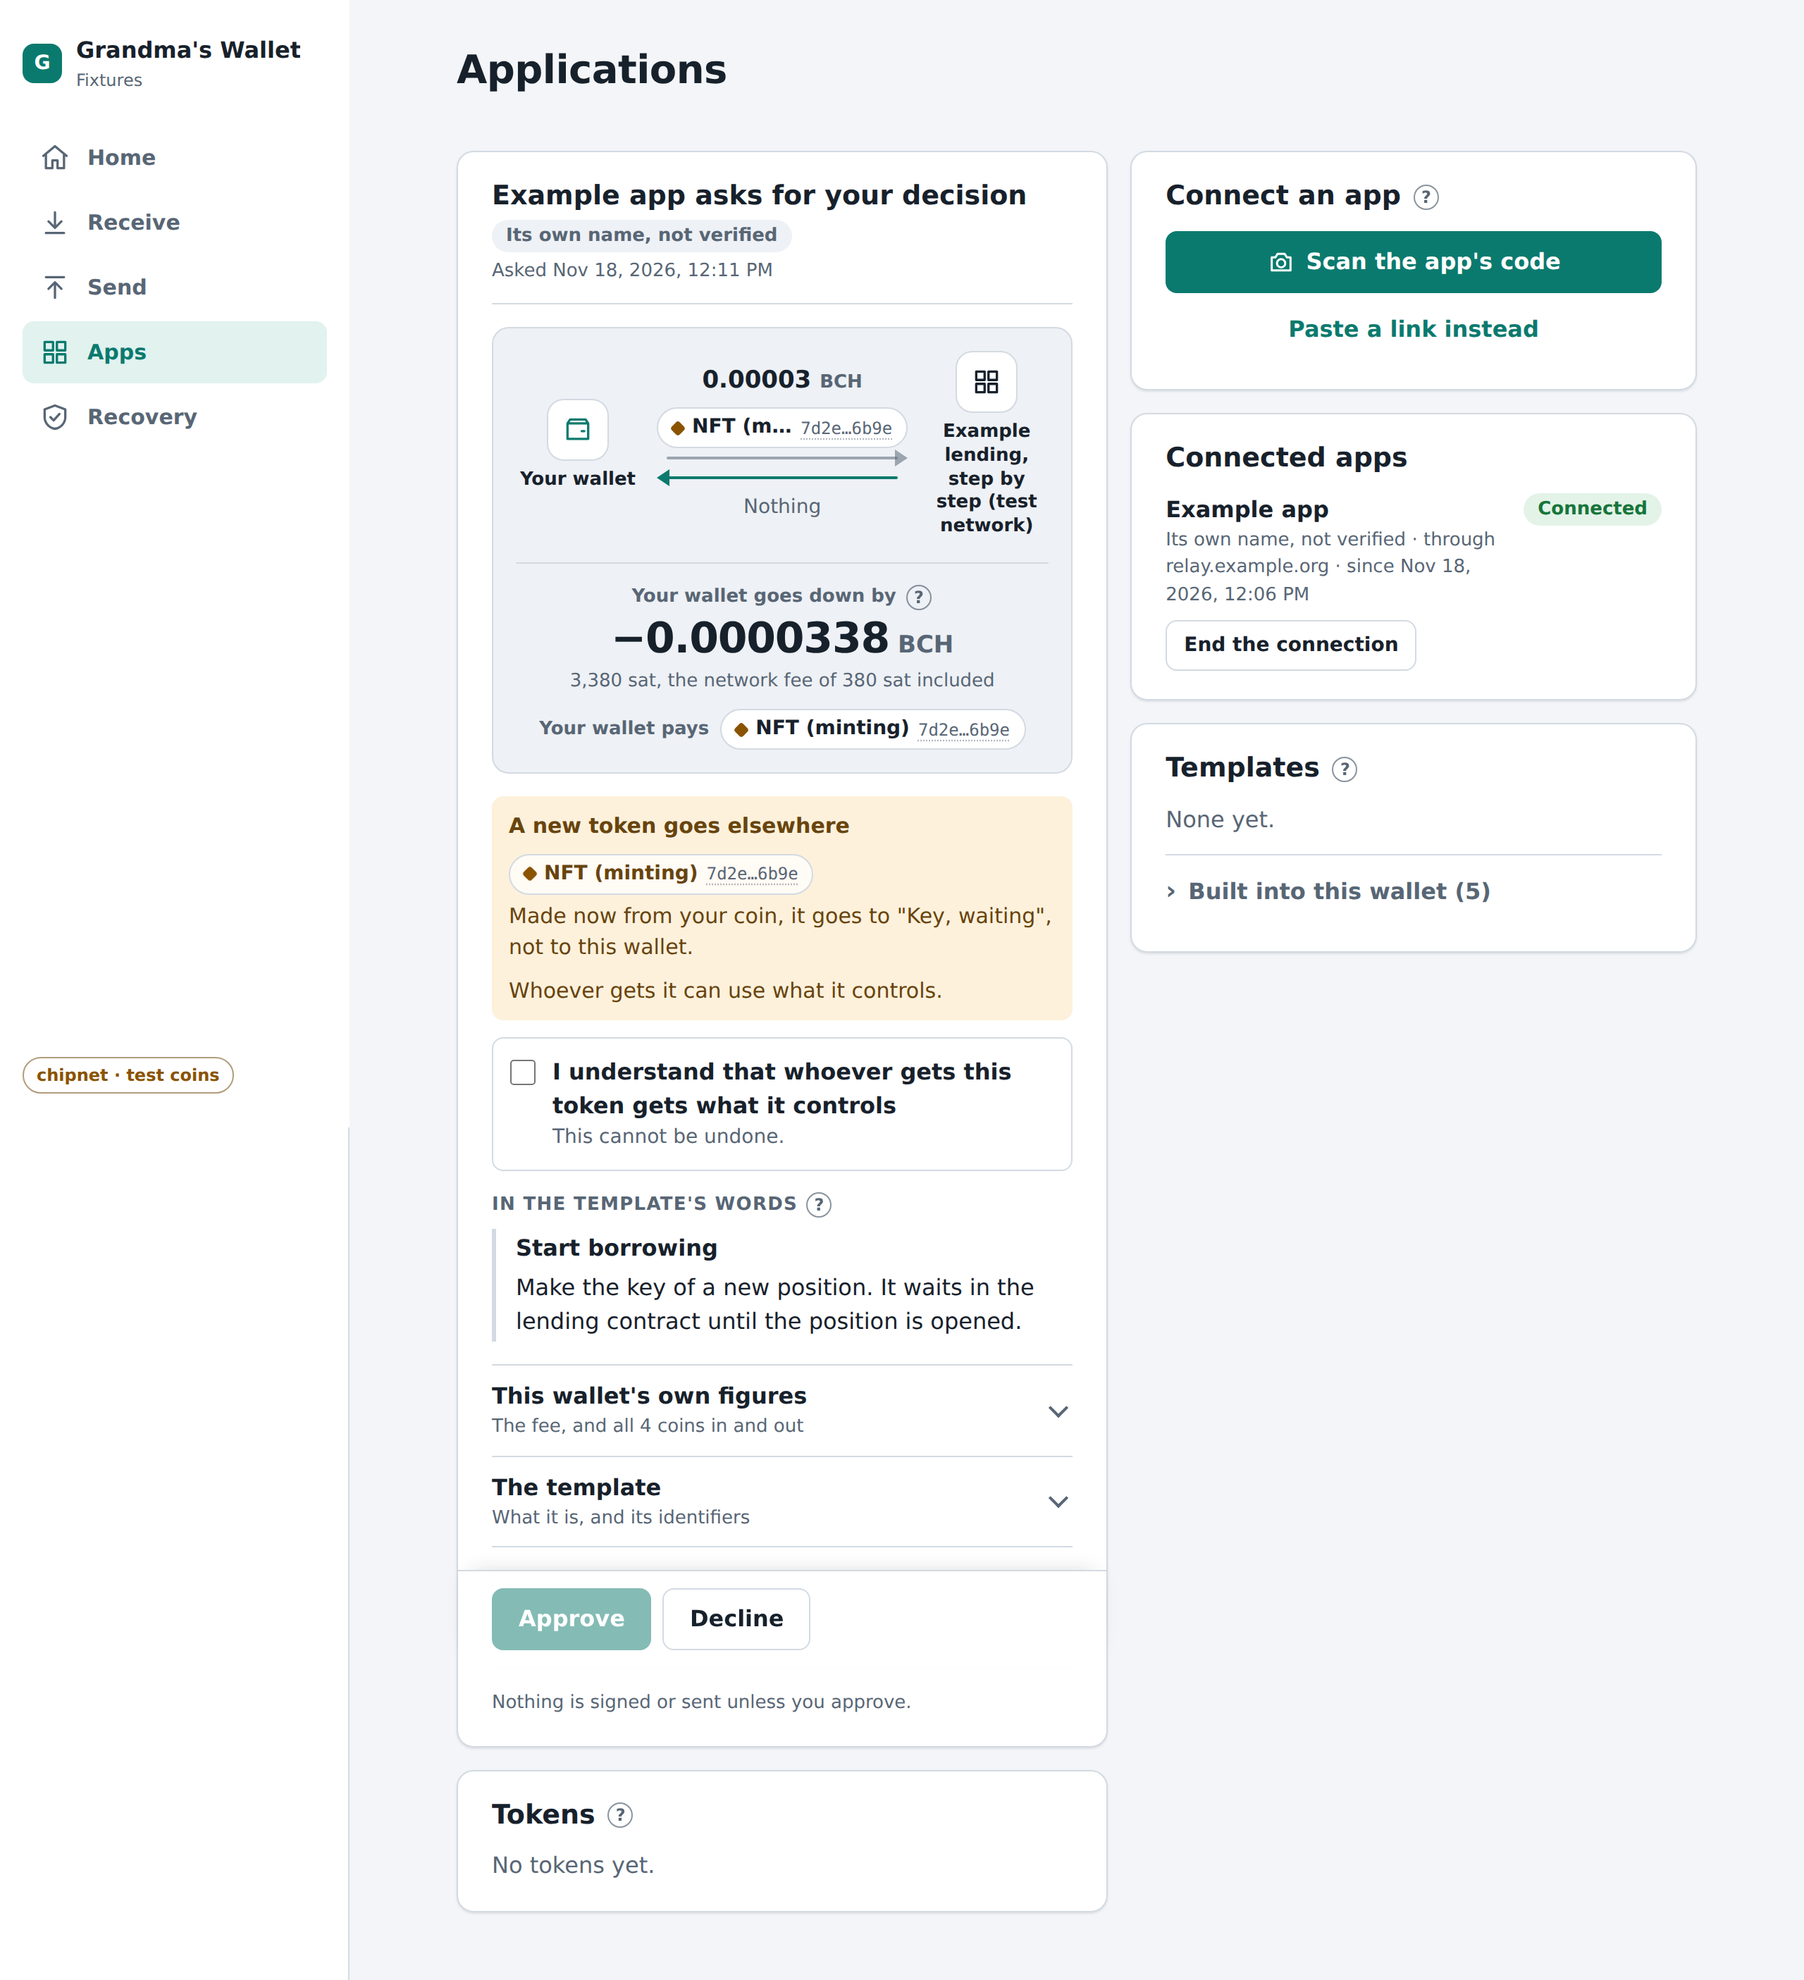
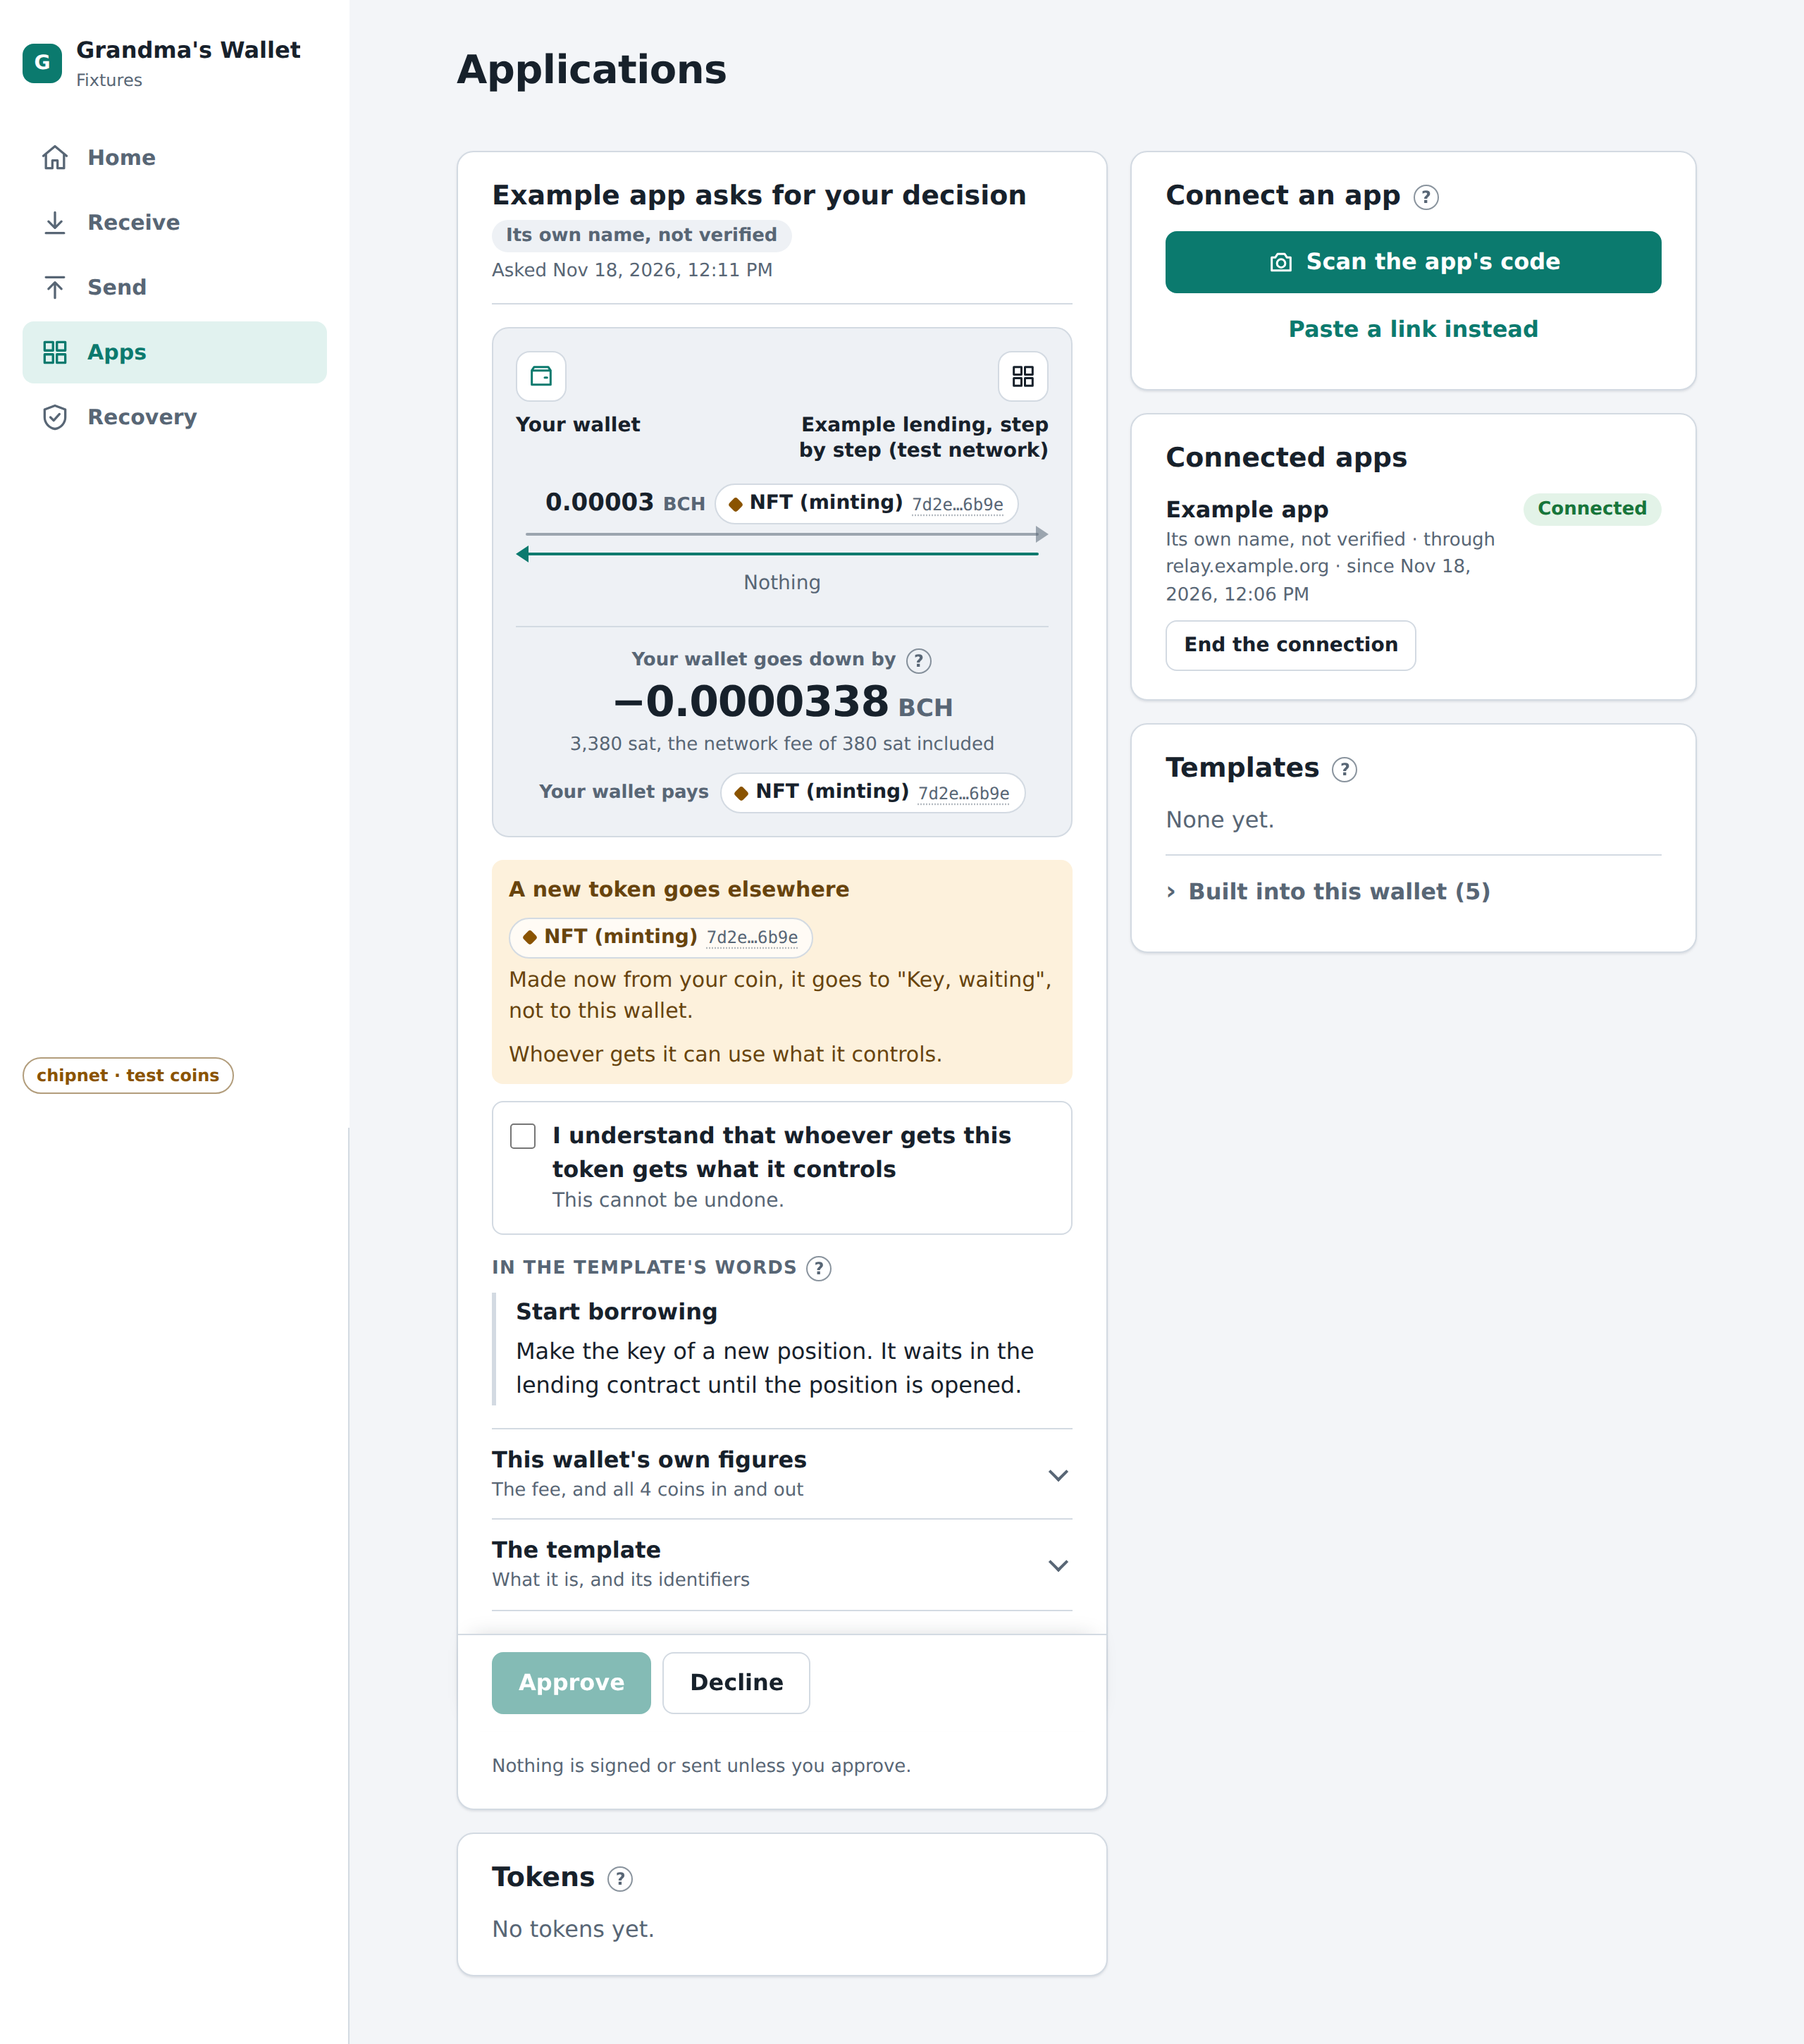
Show the tokens an action moves in full in the review on a desktop
The picture of what goes between the wallet and an application keeps the wallet and the application above
the two lanes unless the lanes have room for a token in full, so that an NFT's capability and an amount are
no longer cut off.

diff --git a/scripts/positions-check.ts b/scripts/positions-check.ts
@@ -167,7 +167,7 @@ try {
   const open = list.locator('[data-testid="position-open"]').first();
   check((await open.locator('.token-title').innerText()).replace(/\s+/g, ' ').trim() === 'Box key · Example money box (test network)', 'a confirmed position by the template\'s name for its token and the template\'s name');
   check(await open.getByText('Open', { exact: true }).isVisible() && /Holds/.test(await open.innerText()), 'open, and what it holds');
-  check(await open.getByRole('button', { name: 'Take everything out' }).isVisible() && (await open.getByRole('button', { name: 'Put money in' }).isVisible()), 'with the actions its script offers');
+  check(await open.getByRole('button', { name: 'Take everything out', exact: true }).isVisible() && (await open.getByRole('button', { name: 'Put money in', exact: true }).isVisible()), 'with the actions its script offers');
   const club = list.locator('[data-testid="position-open"]').nth(1);
   check(await club.getByText('Open the application to do this').isVisible(), 'an action only the application can do says to open the application');
   check((await club.getByRole('link').getAttribute('href')) === 'https://shared-box.example.org/', 'with the address of its page, as a link');
@@ -180,13 +180,13 @@ try {
   const colour = await greyed.locator('.token-title').evaluate((element) => getComputedStyle(element).color);
   const normal = await open.locator('.token-title').evaluate((element) => getComputedStyle(element).color);
   check(colour !== normal, `and greyed (${colour} against ${normal})`);
-  check(await greyed.getByRole('button', { name: 'Take everything out' }).isVisible() && (await greyed.getByRole('button', { name: 'Put money in' }).count()) === 0, 'taking out is offered there; paying in is not');
-  check((await list.getByRole('button', { name: 'Send' }).count()) === 5, 'every token can be sent');
+  check(await greyed.getByRole('button', { name: 'Take everything out', exact: true }).isVisible() && (await greyed.getByRole('button', { name: 'Put money in', exact: true }).count()) === 0, 'taking out is offered there; paying in is not');
+  check((await list.getByRole('button', { name: 'Send', exact: true }).count()) === 5, 'every token can be sent');
   await fitsPhone(page, 'the list');
   await shoot(page, 'apps-positions');
 
   // ---------------------------------------------------------------- acting from the list
-  await open.getByRole('button', { name: 'Put money in' }).tap();
+  await open.getByRole('button', { name: 'Put money in', exact: true }).tap();
   const amount = page.getByLabel('Amount');
   await amount.waitFor();
   await fitsPhone(page, 'the value the action needs');

diff --git a/scripts/stage-17-jar-browser.ts b/scripts/stage-17-jar-browser.ts
@@ -235,7 +235,7 @@ const steps = async (): Promise<void> => {
     await position.waitFor({ state: 'visible', timeout: 180_000 * patience });
     const listed = await textOf(position);
     log(`   trusted; the wallet's list: "${listed}"`);
-    fact(`Once the user trusted the template the earlier owner had stored, the new phone checked the record against the chain and listed the jar from it as open: "${listed}". The actions it offers: ${(await position.locator('.token-actions button').allInnerTexts()).map((text) => `"${flat(text)}"`).join(', ')}.`);
+    fact(`Once the user trusted the template the earlier owner had stored, the new phone checked the record against the chain and listed the jar from it as open: "${listed}". The actions it offers: ${(await position.locator('.token-actions button:not(.info-button):not(.hex)').allInnerTexts()).map((text) => `"${flat(text)}"`).join(', ')}.`);
     await picture(phone.page, 'positions-after-recovery');
   }
 

diff --git a/apps/wallet/src/apps.css b/apps/wallet/src/apps.css
@@ -109,7 +109,8 @@ button.hex.whole { overflow-wrap: anywhere; word-break: break-all; }
 .flow-bch .unit { font-size: 13px; font-weight: 600; color: var(--muted); }
 .flow-nothing { color: var(--muted); font-size: 14px; }
 
-@container (min-width: 360px) {
+/* Side by side only where the lanes between them have room for a token's chip in full. */
+@container (min-width: 480px) {
   .flow { grid-template-columns: 88px minmax(0, 1fr) 88px; grid-template-areas: 'wallet lanes app'; align-items: center; }
   .flow-node, .flow-node.theirs { align-items: center; text-align: center; gap: 6px; }
   .flow-icon { width: 44px; height: 44px; border-radius: 12px; }
